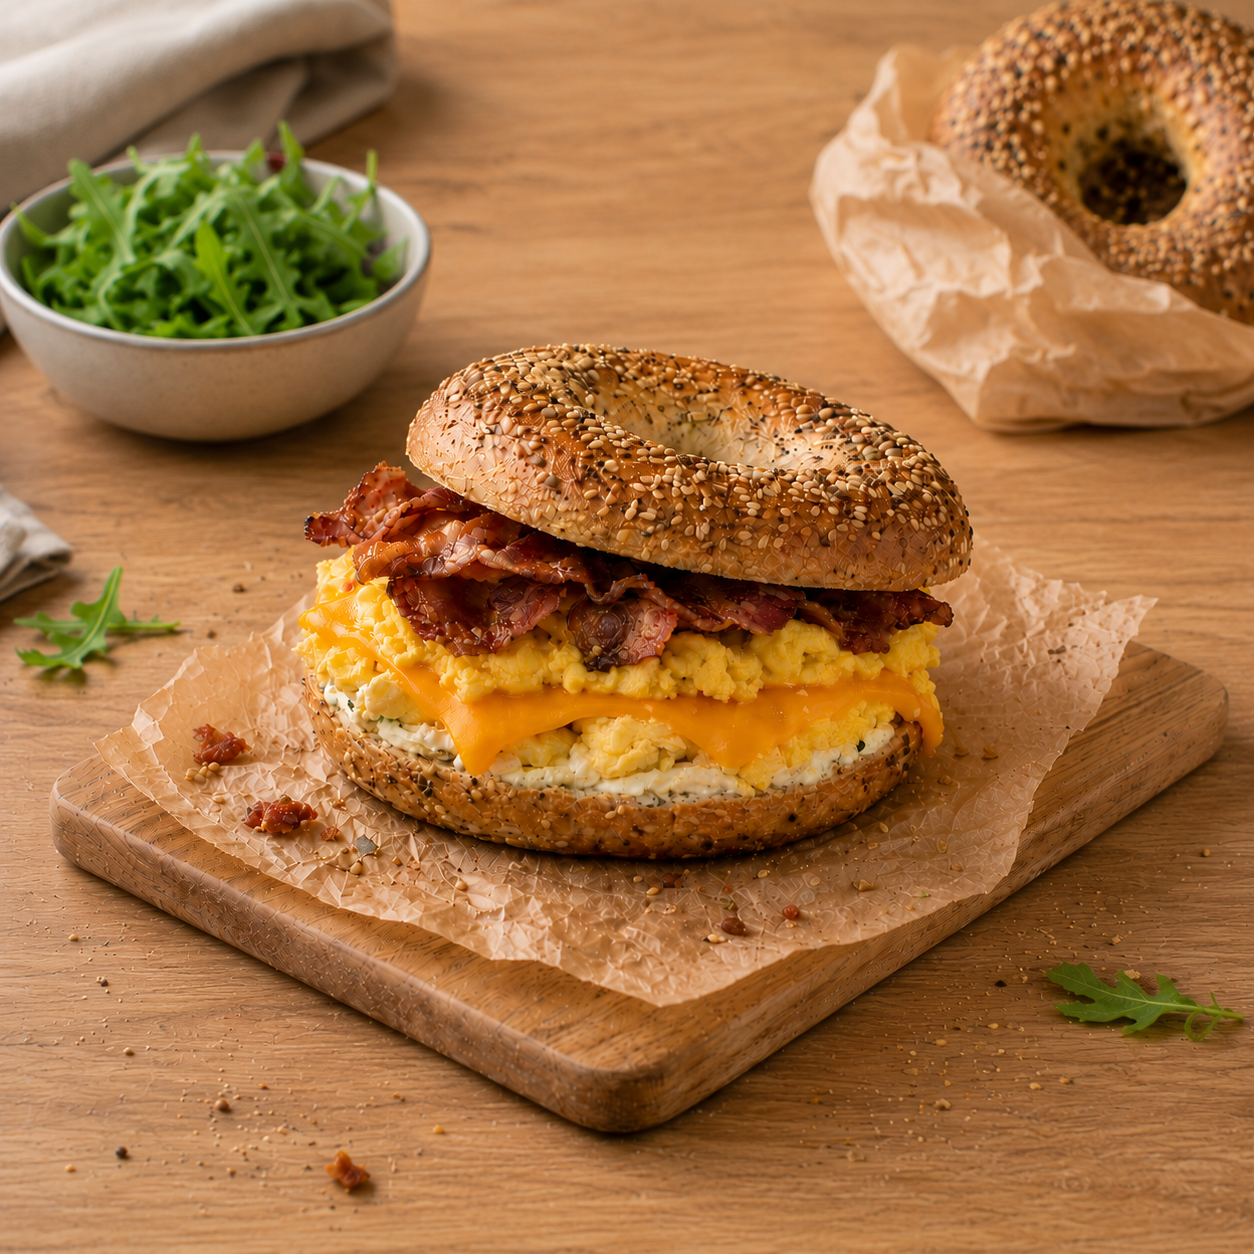
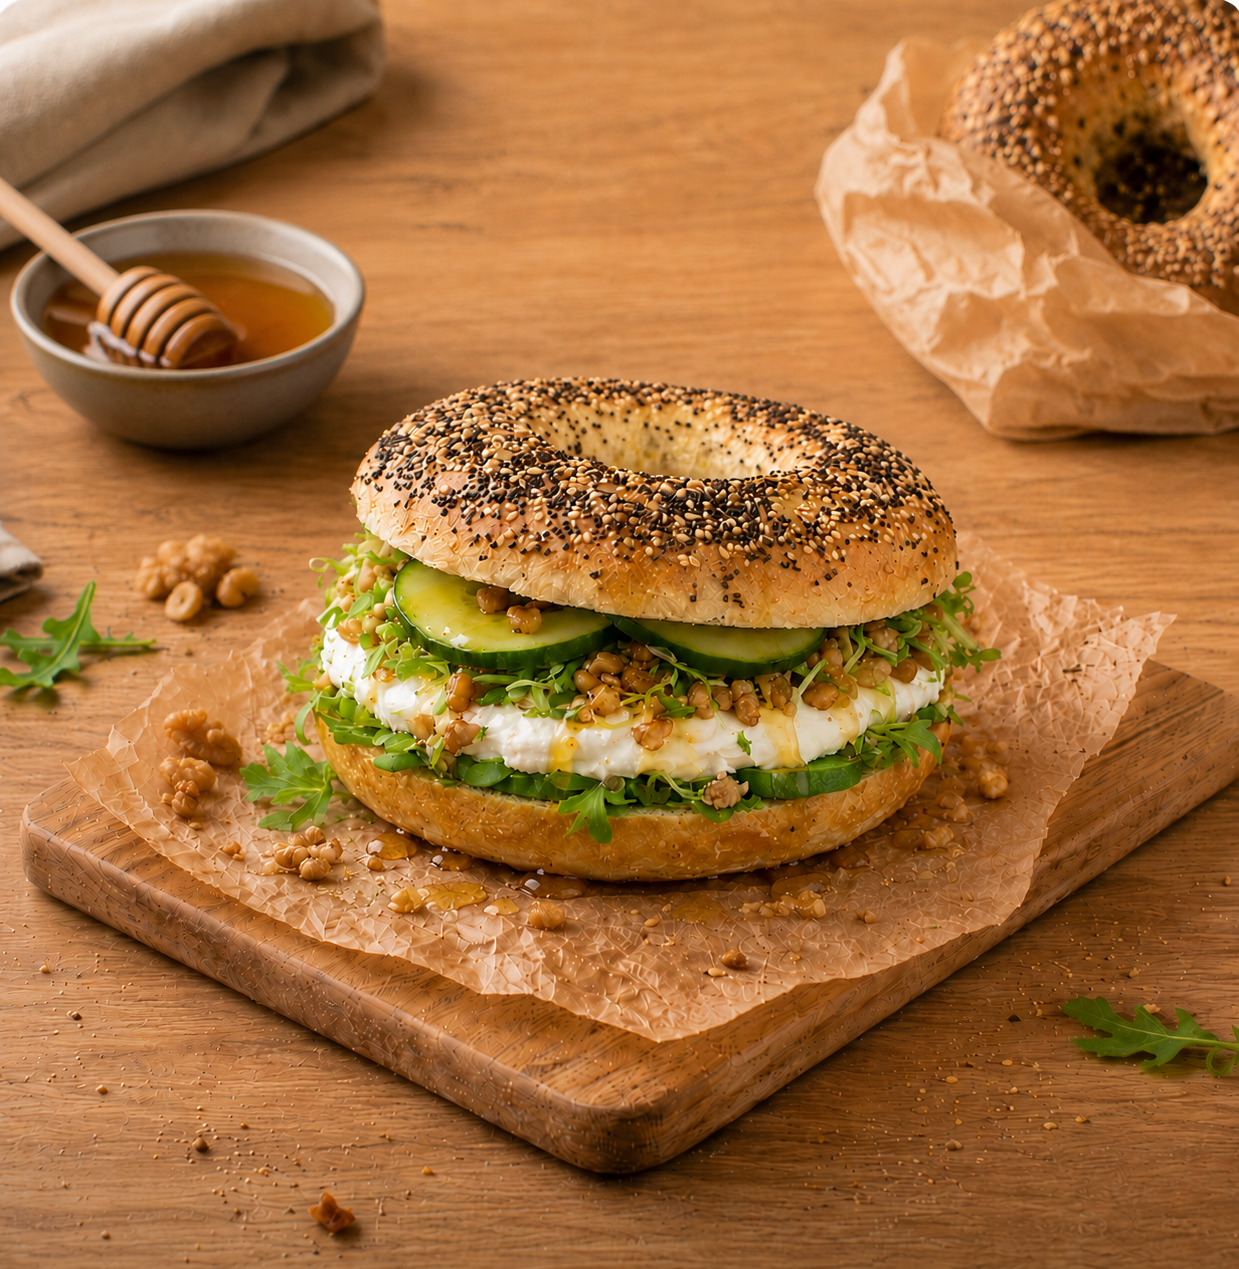
Bagels : images corrigées bagel-chevre et bagel-cheddar

diff --git a/src/data/products.ts b/src/data/products.ts
@@ -200,7 +200,7 @@ export const allProducts: Product[] = [
     name: "Bagel chèvre miel",
     price: "13,50€",
     category: "Le Salé",
-    img: "https://static.wixstatic.com/media/21c6e4_a2a0e40b65f14dc0b9e902939034c8b7~mv2.png/v1/fill/w_980,h_980,al_c,q_90,usm_0.66_1.00_0.01,enc_avif,quality_auto/21c6e4_a2a0e40b65f14dc0b9e902939034c8b7~mv2.png",
+    img: "/bagel-chevre.png",
     desc: "Un bagel gourmand avec du chèvre fondant et un filet de miel.",
     composition: ["Bagel maison", "Fromage de chèvre", "Miel", "Roquette", "Noix"],
   },
@@ -209,7 +209,7 @@ export const allProducts: Product[] = [
     name: "Bagel Bacon Cheddar",
     price: "13,50€",
     category: "Le Salé",
-    img: "/bagel-bacon-cheddar.png",
+    img: "/bagel-cheddar.png",
     desc: "Le bagel généreux au bacon croustillant et cheddar fondant.",
     composition: ["Bagel maison", "Bacon croustillant", "Cheddar", "Salade", "Sauce maison"],
   },

diff --git a/src/pages/CartePage.tsx b/src/pages/CartePage.tsx
@@ -120,13 +120,13 @@ const produits: Record<string, { id: string; name: string; price: string; img: s
       id: "bagel-chevre-miel",
       name: "Bagel chèvre miel",
       price: "13,50€",
-      img: "https://static.wixstatic.com/media/21c6e4_a2a0e40b65f14dc0b9e902939034c8b7~mv2.png/v1/fill/w_980,h_980,al_c,q_90,usm_0.66_1.00_0.01,enc_avif,quality_auto/21c6e4_a2a0e40b65f14dc0b9e902939034c8b7~mv2.png",
+      img: "/bagel-chevre.png",
     },
     {
       id: "bagel-bacon-cheddar",
       name: "Bagel Bacon Cheddar",
       price: "13,50€",
-      img: "/bagel-bacon-cheddar.png",
+      img: "/bagel-cheddar.png",
     },
     {
       id: "bagel-saumon-avocat",